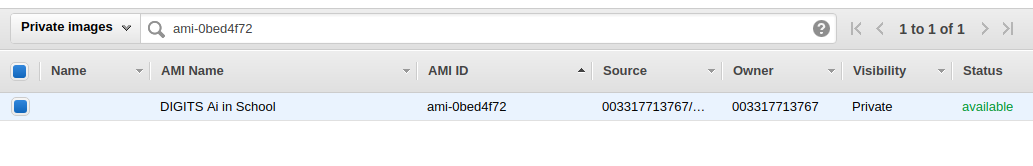
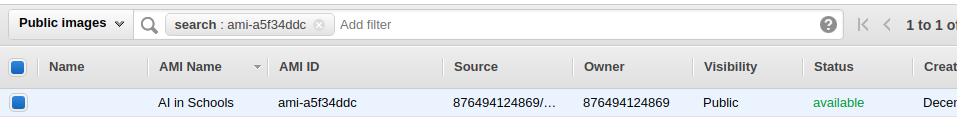
Added limit increase instructions and changed the ami ID

diff --git a/awsinstructions.md b/awsinstructions.md
@@ -8,12 +8,12 @@ permalink: /awsinstructions
 The following is an instruction for using AWS to launch instances of DIGITS for your students.
 
 1. Login to `console.aws.amazon.com`, enter your `username` and `password`.
-2. Click on `your name` in the top right and then on `My account`. Send your `Account Id` number to [t.karmakharm@sheffield.ac.uk](mailto:t.karmakharm@sheffield.ac.uk) to be added to the list of users the class image is made available to.
 2. Next to `your name` in the top-right corner, make sure you're in the `Ireland` region. If not, click on the region name and select `EU (Ireland)`. <br/>![Ireland region](/img/aws/irelandregion.png)
 2. Click on `Services` at the top-left of your screen and then on `EC2`. You will be taken to the EC2 dashboard.
     <br/>![EC 2](/img/aws/2-ec2.png)
+3. **If running for the first time you will need to enable the use of GPU instances. It can take Amazon a few hours to respond.** Click on `Limits` on the left menu. Find the `Running On-Demand p2.xlarge instances` and click on `Request limit increase` and fill in the form in the following page. <br/>![Search for AMI](/img/aws/limitincrease.png)
 3. Click on `AMIs` on the left menu. <br/>![AMIs](/img/aws/3-amis.png)
-4. In the search bar, select `Public images` and type in `ami-0bed4f72`. <br/>![Search for AMI](/img/aws/4-amisearch.png)
+4. In the search bar, select `Public images` and type in `ami-a5f34ddc`. <br/>![Search for AMI](/img/aws/4-amisearch.png)
 5. `Right-click` on the image called `DIGITS AI in School` and select `Launch`. <br/>![Launch images](/img/aws/5-launchimg.png)
 6. Select the `GPU Compute p2.xlarge` <br/>![Select p2.xlarge](/img/aws/6-p2xlarge.png)
 7. Select `Next: Configure Instance Details`. You'll be taken to the `Configure Instance` page. <br/>![Config instance detail](/img/aws/7-configinstancedetail.png)
